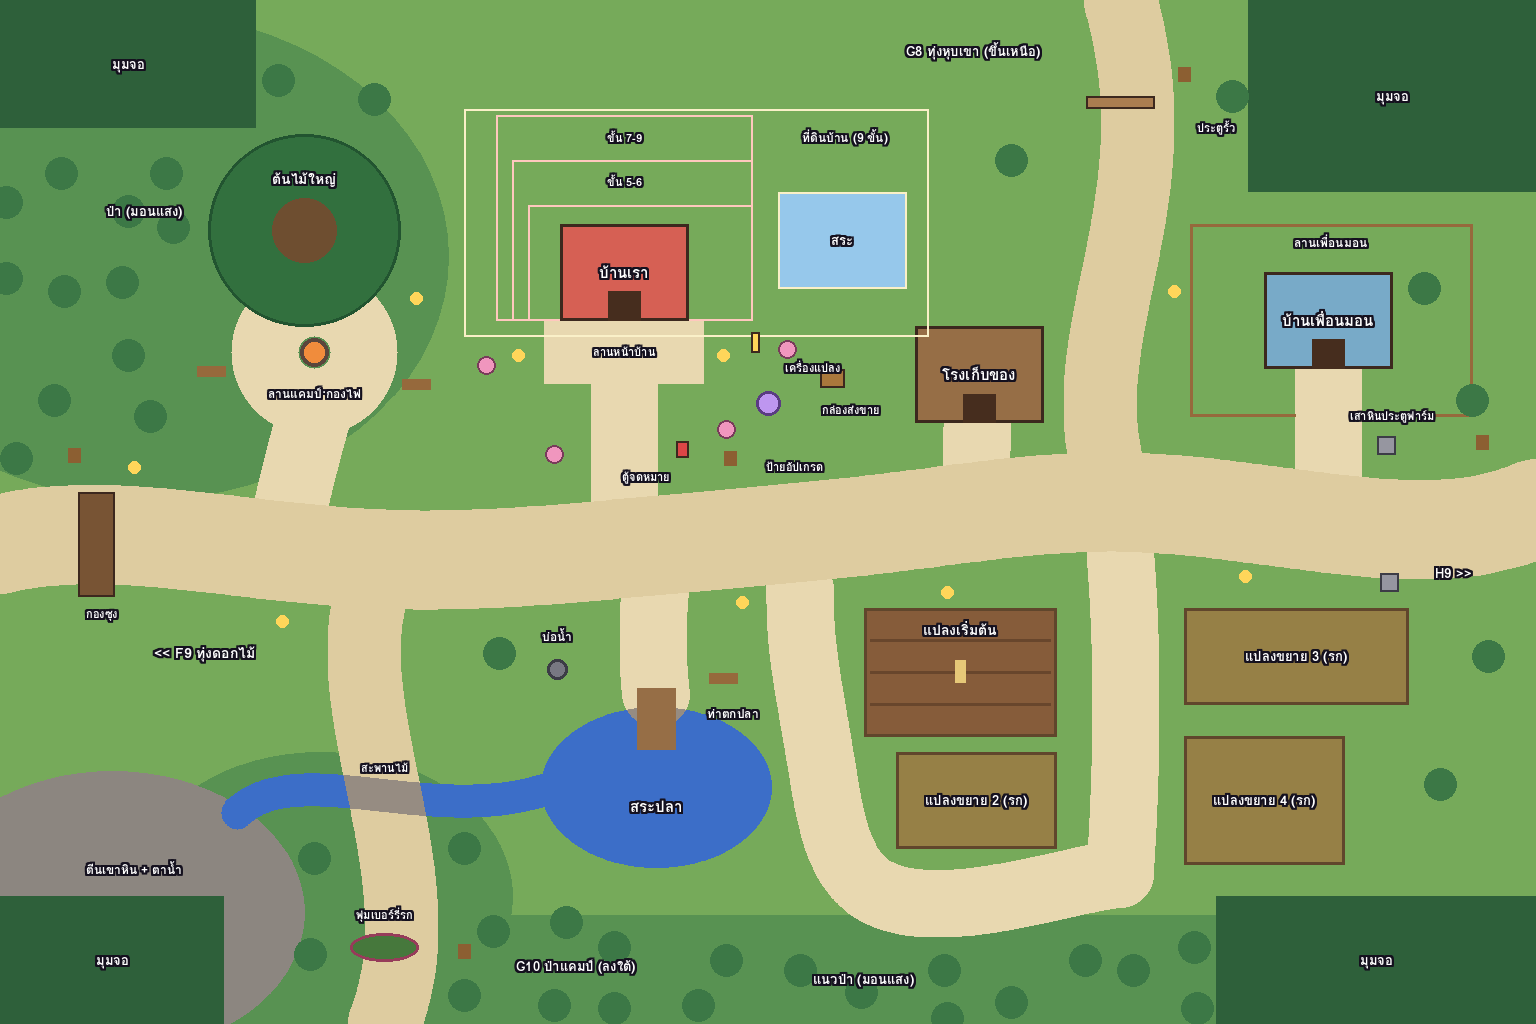
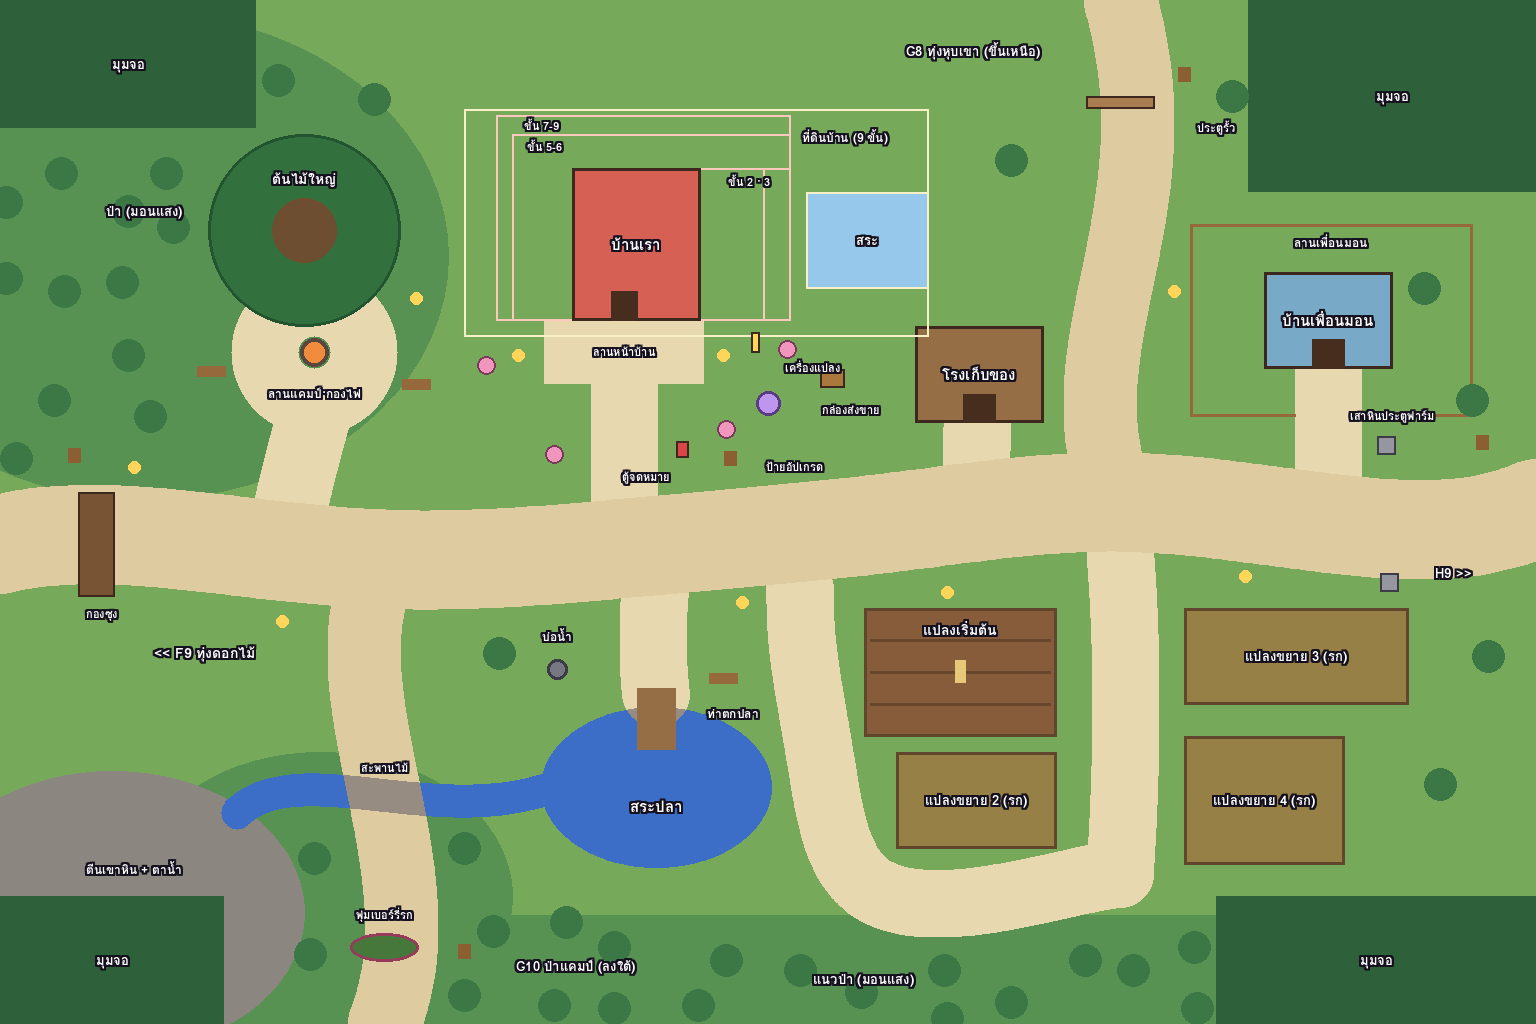
Add files via upload

Changed region(s): [[0.3438, 0.0938, 0.625, 0.3125]]

diff --git a/layout_G9_home_farm.py b/layout_G9_home_farm.py
@@ -41,14 +41,14 @@ TREE=(9.5,7.2)
 # ---------- buildings (x_centre, y_base=door row, w, depth) : standard sizes house 4x3 ----------
 B={'our_house':(19.5,10,4,3),'shed':(30.6,13.2,4,3),'friend_hut':(41.5,11.5,4,3)}
 HOUSE_LOT=(14.5,3.4,29,10.5)                                           # reserved for 9 upgrade levels; the door never moves
-STAGES={'lv1':(17.5,7,21.5,10),'lv2-4':(16.5,6.4,23.5,10),'lv5-6':(16,5,23.5,10),'lv7-9':(15.5,3.6,23.5,10)}   # picture envelope incl. roof (concept-house-levels.jpg): cottage / +wing+deck / 2 floors / 3 floors
-HOUSE_MAX=STAGES['lv7-9']; POOL=(24.3,6,28.3,9)                         # pool 4x3 BESIDE the house (behind a 3-floor house it would be hidden)
+STAGES={'lv1':(17.86,5.26,21.86,10),'lv2':(18.0,5.26,23.86,10),'lv3-4':(18.03,5.26,24.7,10),'lv5-6':(16,4.2,24.7,10),'lv7-9':(15.5,3.6,24.7,10)}   # lv1-3 = boxes of the real sprites farm-house-1/2/3.png (door at x 19.5); lv5+ = room kept for 2 and 3 floors
+HOUSE_MAX=STAGES['lv7-9']; POOL=(25.2,6,29,9)                         # pool 4x3 BESIDE the house (behind a 3-floor house it would be hidden)
 FORECOURT=(17,10,22,12)                                                # paved front yard 5x2 so visitors never block the door
 def build_solid(house_full=False,stage=None):
     s=Z()
-    for n,(x,yb,w,dp) in B.items(): s[t(yb-dp):t(yb),t(x-w/2):t(x+w/2)]=255
-    if house_full or stage:
-        for x0,y0,x1,y1 in ((HOUSE_MAX,POOL) if house_full else (STAGES[stage],)): s[t(y0):t(y1),t(x0):t(x1)]=255
+    for n,(x,yb,w,dp) in B.items():
+        if n!='our_house': s[t(yb-dp):t(yb),t(x-w/2):t(x+w/2)]=255
+    for x0,y0,x1,y1 in ((HOUSE_MAX,POOL) if house_full else (STAGES[stage or 'lv1'],)): s[t(y0):t(y1),t(x0):t(x1)]=255
     s[rock>0]=255
     cv2.circle(s,(t(TREE[0]),t(TREE[1])),t(1.0),255,-1)        # big tree trunk
     cv2.circle(s,(t(CAMP[0]),t(CAMP[1])),t(.5),255,-1)         # campfire
@@ -170,8 +170,9 @@ SYSTEMS={
    'never':['crops dying','seasons','quality stars','processing','orders'],'later':['friend monster waters for you','plots 2-4']},
  'house_upgrade':{'how':'tap the sign in front of the house -> picture of next level + price -> one button; coins only',
    'look':'concept-house-levels.jpg (9 exteriors, one per level; redraw top-down for the game)',
-   'levels':[{'lv':1,'adds':'กระท่อมห้องเดียว','envelope':'lv1','cost':0},{'lv':2,'adds':'ปีกครัว','envelope':'lv2-4','cost':200},{'lv':3,'adds':'ห้องกว้างขึ้น (ห้องนั่งเล่น)','envelope':'lv2-4','cost':500},
-             {'lv':4,'adds':'ระเบียงไม้ + สวนหน้าบ้าน','envelope':'lv2-4','cost':1000},{'lv':5,'adds':'ชั้น 2 + ห้องนอน + ห้องน้ำ','envelope':'lv5-6','cost':1500},{'lv':6,'adds':'ห้องกระจก','envelope':'lv5-6','cost':2500},
+   'sprites':{'scale':'64 screen px per plan tile (the scene picture is shown at 2x)','anchor':'door centre at x 19.5, sprite bottom at y 10.15','files':{'farm-house-1.png':[256,313],'farm-house-2.png':[375,313],'farm-house-3.png':[427,313]},'collision':'the whole sprite box (stages lv1 / lv2 / lv3-4)'},
+   'levels':[{'lv':1,'adds':'กระท่อมห้องเดียว','envelope':'lv1','sprite':'farm-house-1.png','cost':0},{'lv':2,'adds':'ปีกครัว','envelope':'lv2','sprite':'farm-house-2.png','cost':200},{'lv':3,'adds':'ห้องกว้างขึ้น (ห้องนั่งเล่น)','envelope':'lv3-4','sprite':'farm-house-3.png','cost':500},
+             {'lv':4,'adds':'ระเบียงไม้ + สวนหน้าบ้าน','envelope':'lv3-4','cost':1000},{'lv':5,'adds':'ชั้น 2 + ห้องนอน + ห้องน้ำ','envelope':'lv5-6','cost':1500},{'lv':6,'adds':'ห้องกระจก','envelope':'lv5-6','cost':2500},
              {'lv':7,'adds':'ชั้น 3 + หอดูดาว','envelope':'lv7-9','cost':4000},{'lv':8,'adds':'ห้องบ่อบอล + สไลเดอร์','envelope':'lv7-9','cost':6000},{'lv':9,'adds':'สระว่ายน้ำ + สไลเดอร์น้ำ','envelope':'lv7-9 + pool','cost':10000}],
    'rules':['new room arrives with basic furniture','house gives no combat power','only the current level picture is loaded'],'phase1':'lv 1-3'},
  'decor':{'room_grid':{'lv1':[8,6],'lv2':[10,7]},'place':'tap item -> tap floor cell; snaps to grid',
@@ -230,10 +231,10 @@ for k,(x0,y0,x1,y1) in PLOTS.items():                                    # game 
         for r in range(1,4): dl.line((t(x0)+6,t(y0+r),t(x1)-6,t(y0+r)),fill=(104,70,44),width=3)
     else: dl.rectangle((t(x0),t(y0),t(x1),t(y1)),fill=(150,128,70),outline=(96,70,44),width=3)
 x0,y0,x1,y1=HOUSE_LOT; dl.rectangle((t(x0),t(y0),t(x1),t(y1)),outline=(250,240,200),width=2)
-for k in ('lv7-9','lv5-6','lv2-4'):
+for k in ('lv7-9','lv5-6','lv3-4','lv2'):
     x0,y0,x1,y1=STAGES[k]; dl.rectangle((t(x0),t(y0),t(x1),t(y1)),outline=(255,200,190),width=2)
 x0,y0,x1,y1=POOL; dl.rectangle((t(x0),t(y0),t(x1),t(y1)),fill=(150,200,235),outline=(250,240,200),width=2)
-draw_building(dl,'our_house')
+x0,y0,x1,y1=STAGES['lv1']; dl.rectangle((t(x0),t(y0),t(x1),t(y1)),fill=ROOF['our_house'],outline=(60,40,30),width=3); dl.rectangle((t(19.5-.4),t(9.1),t(19.5+.4),t(10)),fill=(70,45,30))
 for x,y in DECOR.values(): dl.ellipse((t(x)-9,t(y)-9,t(x)+9,t(y)+9),fill=(240,150,190),outline=(120,60,90),width=2)
 dl.rectangle((t(BANNER[0])-4,t(BANNER[1])-14,t(BANNER[0])+4,t(BANNER[1])+6),fill=(255,214,90),outline=(60,40,30),width=2)
 dl.rectangle((t(30)-5,t(21)-12,t(30)+5,t(21)+10),fill=(230,200,120))                                        # scarecrow
@@ -246,8 +247,8 @@ def lab(x,y,s,sz=17):
             if dx or dy: dl.text((x+dx,y+dy),s,font=F(sz),fill=(20,16,30),anchor='mm')
     dl.text((x,y),s,font=F(sz),fill=(255,255,255),anchor='mm')
 NM={'our_house':'บ้านเรา','shed':'โรงเก็บของ','friend_hut':'บ้านเพื่อนมอน'}
-for n,(x,yb,w,dp) in B.items(): lab(t(x),t(yb-dp/2),NM[n],15)
-lab(t(26.4),t(4.3),'ที่ดินบ้าน (9 ขั้น)',12); lab(t(26.3),t(7.5),'สระ',13); lab(t(19.5),t(4.3),'ขั้น 7-9',11); lab(t(19.5),t(5.7),'ขั้น 5-6',11); lab(t(19.5),t(11),'ลานหน้าบ้าน',11); lab(t(TREE[0]),t(TREE[1]-1.6),'ต้นไม้ใหญ่',14); lab(t(CAMP[0]),t(CAMP[1]+1.3),'ลานแคมป์·กองไฟ',12)
+for n,(x,yb,w,dp) in B.items(): lab(t(x+(0.36 if n=='our_house' else 0)),t(yb-(4.74 if n=='our_house' else dp)/2),NM[n],15)
+lab(t(26.4),t(4.3),'ที่ดินบ้าน (9 ขั้น)',12); lab(t(27.1),t(7.5),'สระ',13); lab(t(16.9),t(3.95),'ขั้น 7-9',11); lab(t(17),t(4.6),'ขั้น 5-6',11); lab(t(23.4),t(5.7),'ขั้น 2 · 3',11); lab(t(19.5),t(11),'ลานหน้าบ้าน',11); lab(t(TREE[0]),t(TREE[1]-1.6),'ต้นไม้ใหญ่',14); lab(t(CAMP[0]),t(CAMP[1]+1.3),'ลานแคมป์·กองไฟ',12)
 lab(t(20.5),t(25.2),'สระปลา',15); lab(t(22.9),t(22.3),'ท่าตกปลา',12); lab(t(30),t(19.7),'แปลงเริ่มต้น',14)
 for k,s in (('plot2','แปลงขยาย 2'),('plot3','แปลงขยาย 3'),('plot4','แปลงขยาย 4')):
     a,b,c,e=PLOTS[k]; lab(t((a+c)/2),t((b+e)/2),s+' (รก)',13)
@@ -257,7 +258,7 @@ lab(t(45.4),t(17.9),'H9 >>',13); lab(t(6.4),t(20.4),'<< F9 ทุ่งดอก
 lab(t(43.5),t(13),'เสาหินประตูฟาร์ม',11); lab(t(3.2),t(19.2),'กองซุง',11); lab(t(38),t(4),'ประตูรั้ว',11); lab(t(12),t(28.6),'พุ่มเบอร์รี่รก',11)
 for (x0,y0,x1,y1) in CORNERS: lab(t((x0+x1)/2),t((y0+y1)/2),'มุมจอ',13)
 L.save(os.path.join(OUT,'map-G9-home-farm-layout-labeled.png'))
-spec={'block':'G9','name':'บ้านเรา · ฟาร์ม','version':'1.5','background':{'file':'map-G9-home-farm.jpg','picked':'run 2 picture 4 (3 Oct 2026)','tone':'bright (kid) = the one tone for the whole game','score':9.5},'size':[48,32],'instance':'per_player (แต่ละคนมีฟาร์มของตัวเอง · เพื่อนเข้าได้เมื่อเชิญ)',
+spec={'block':'G9','name':'บ้านเรา · ฟาร์ม','version':'1.6','background':{'file':'map-G9-home-farm.jpg','picked':'run 2 picture 4 (3 Oct 2026)','tone':'bright (kid) = the one tone for the whole game','score':9.5},'size':[48,32],'instance':'per_player (แต่ละคนมีฟาร์มของตัวเอง · เพื่อนเข้าได้เมื่อเชิญ)',
  'rule':'HUD corners: no door, exit, NPC, pickup or needed path inside them; every edge follows its neighbour block',
  'doors':{n:[x,yb] for n,(x,yb,w,dp) in B.items()},
  'house':{'lot':list(HOUSE_LOT),'door':[19.5,10],'door_fixed_all_levels':True,'levels':9,'stages':{k:list(v) for k,v in STAGES.items()},'pool_reserved':list(POOL),'forecourt':list(FORECOURT),

diff --git a/MAP_SPEC_G9.md b/MAP_SPEC_G9.md
@@ -1,4 +1,4 @@
-# MAP_SPEC G9 · บ้านเรา · ฟาร์ม (v1.5 · 3 ต.ค. 2569)
+# MAP_SPEC G9 · บ้านเรา · ฟาร์ม (v1.6 · 3 ต.ค. 2569)
 
 ใช้คู่กับ `map-G9-home-farm-layout-labeled.png` · `map-G9-spec.json` (ตำแหน่งทุกอย่างสำหรับโค้ด) · `tools/layout_G9_home_farm.py` (สร้างผัง + ตรวจ) · กติกาผังยึด `MAP_SPEC_H9.md` หัวข้อ 0 · ต้องเข้าเกม**พร้อม H9**
 
@@ -48,18 +48,20 @@
 | เสาหินประตูฟาร์ม (คู่ มีโคม) · เสาโคม 9 (ในภาพ 3 · เกมวาด 6) · ป้าย 4 | ดู json | จุดสังเกต · แสงกลางคืน · บอกทาง | ✅ |
 | มอนแสง (เห็ดน้อย · กระรอกลูกโอ๊ก) | ป่าริมตะวันตก · ป่าเหนือ · แนวป่าใต้ (ห่างลานแคมป์ ≥ 3 ช่อง) | สมุดประวัติมอน (เด็ก) · ฝึกตี (ผู้ใหญ่) | ✅ |
 
-## 4b. การขยายบ้าน (ที่ที่ผังกันไว้ · หน้าตาตาม `concept-house-levels.jpg`)
-| ขั้น | กรอบภาพ (รวมหลังคา) | หน้าตา |
-|---|---|---|
-| 1 | 4×3 (17.5–21.5 × 7–10) | กระท่อมชั้นเดียว |
-| 2–4 | 7×3.6 (16.5–23.5 × 6.4–10) | มีปีกข้าง + ระเบียงไม้ |
-| 5–6 | 7.5×5 (16–23.5 × 5–10) | 2 ชั้น |
-| 7–9 | 8×6.4 (15.5–23.5 × 3.6–10) + สระ 4×3 ข้างบ้าน (24.3–28.3 × 6–9) | 3 ชั้น + หอดูดาว |
+## 4b. การขยายบ้าน (กรอบวัดจากภาพบ้านจริง · หน้าตาตาม `concept-house-levels.jpg`)
+| ขั้น | ภาพ | กรอบในฉาก (รวมหลังคา) | ขนาดไฟล์ |
+|---|---|---|---|
+| 1 | `farm-house-1.png` กระท่อมห้องเดียว | 4.0×4.9 ช่อง (17.86–21.86 × 5.26–10) | 256×313 |
+| 2 | `farm-house-2.png` + ปีกครัว | 5.9×4.9 ช่อง (18.0–23.86) | 375×313 |
+| 3–4 | `farm-house-3.png` + ห้องนั่งเล่น | 6.7×4.9 ช่อง (18.03–24.7) | 427×313 |
+| 5–6 | ยังไม่ได้วาด (2 ชั้น) | กันที่ไว้ 16–24.7 × 4.2–10 | – |
+| 7–9 | ยังไม่ได้วาด (3 ชั้น) + สระ 3.8×3 (25.2–29 × 6–9) | กันที่ไว้ 15.5–24.7 × 3.6–10 | – |
+- ภาพบ้านวาดที่ 64 พิกเซลต่อช่อง (ฉากแสดงผลขยาย 2 เท่า) · วางให้กลางประตูอยู่ที่ x 19.5 และขอบล่างภาพอยู่ที่ y 10.15 · ประตูสูง 67 พิกเซล ตัวละครสูง 64 พิกเซล
 - **ประตูอยู่ที่เดิมทุกขั้น** (19.5, 10) → ทางเดิน จุดมาถึง ตู้จดหมาย ไม่ต้องย้าย เซฟไม่พัง
-- **บ้านโตไปด้านข้างและขึ้นบน ไม่โตมาทางถนน** → ลานหน้าบ้านลึก 5.6 ช่องเท่าเดิมตลอด
-- **ไม่วางของที่เล่นได้ไว้หลังบ้าน** (บ้าน 3 ชั้นจะบังตัวละคร) → สระอยู่ข้างบ้าน มองเห็นจากถนน
-- ของแต่งหน้าบ้านวางได้เฉพาะ 4 จุดที่กำหนด
-- ตรวจแล้ว: เดินถึง 27/27 จุดทุกระยะ (ขั้น 1 · 2–4 · 5–6 · 7–9 + สระ)
+- **บ้านโตไปทางขวาและขึ้นบน ไม่โตมาทางถนน** → ลานหน้าบ้านลึก 5.6 ช่องเท่าเดิมตลอด
+- **ไม่วางของที่เล่นได้ไว้หลังบ้าน** · สระอยู่ข้างบ้าน มองเห็นจากถนน
+- การชน = กรอบภาพบ้านทั้งกรอบ · ตรวจแล้ว: เดินถึง 27/27 จุดทุกระยะ (ขั้น 1 · 2 · 3–4 · 5–6 · 7–9 + สระ)
+- เกม 1.04 รับไฟล์ 3 ชื่อนี้อยู่แล้ว (ฟาร์มผังเปล่าเดิม) แต่จับคู่เป็นขั้น 1–2 / 3–6 / 7–9 → รุ่น 1.05 เปลี่ยนเป็นขั้น 1 / 2 / 3–4
 
 ## 4c. อัปเกรดบ้าน 9 ขั้น (ตัดสิน 2 ต.ค. · ราคาเป็นตัวเลขเริ่มต้น จูนจากผลเล่นจริง)
 แตะป้ายหน้าบ้าน → เห็นรูปขั้นถัดไป + ราคา → กดปุ่มเดียว · จ่ายเป็นเหรียญอย่างเดียว · **ไม่มีการวาดกำแพงเอง**
@@ -163,6 +165,7 @@
 - แอตลาส G8/G10 เขียน `road: false` → ใน G9 เป็น**ทางเดินเล็ก** (กว้าง 2.2) ไม่ใช่ถนนหลัก · G8 ต้องรับที่ x 35 · G10 ที่ x 12
 
 ## 9. ประวัติ
+- v1.6: ภาพบ้านขั้น 1–3 ผ่าน (9.5) → `farm-house-1/2/3.png` · กรอบบ้านในสเปกวัดจากภาพจริง · สระเลื่อนไป 25.2–29 เพราะบ้านขั้น 3 กว้างถึง 24.7
 - v1.5: เลือกภาพฉาก (รอบ 2 ภาพที่ 4 · 9.5) · ปรับตำแหน่งของในสเปกตามภาพจริง · กล่องส่งขายและเสาโคม 6 ต้นให้เกมวาด · ตัดเสาโคมข้างเสาหินประตูออก 1 ต้น (ซ้ำกับโคมบนเสาหิน)
 - v1.4: หลังวิจารณ์ภาพทดลอง 15 ภาพ (ดีสุด 9.0): ผังส่งวาดไม่ลงสีเนินบ้าน (AI ลอกเป็นวงรีขอบคม) · ซุ้มประตูเปลี่ยนเป็นเสาหินคู่ · โทนภาพหลัก = สดใส (ภาพทดลอง #13) · หลังได้ภาพที่ผ่าน ให้วัดตำแหน่งแปลงจริงจากภาพแล้วปรับ `plots` ในสเปก
 - v1.3: ปิดข้อรอยืนยันครบ · ระยะบ้านและตารางอัปเกรดปรับตาม `concept-house-levels.jpg` ที่มีอยู่ใน repo (v1.2 ผมตั้งลำดับเองโดยยังไม่ได้ดูภาพนี้) · แยกชั้นภาพ (4f) · ผังส่งวาดไม่มีของที่เกมวาดเอง · ชุดแนบ `attach-map-G9-home-farm.zip`
